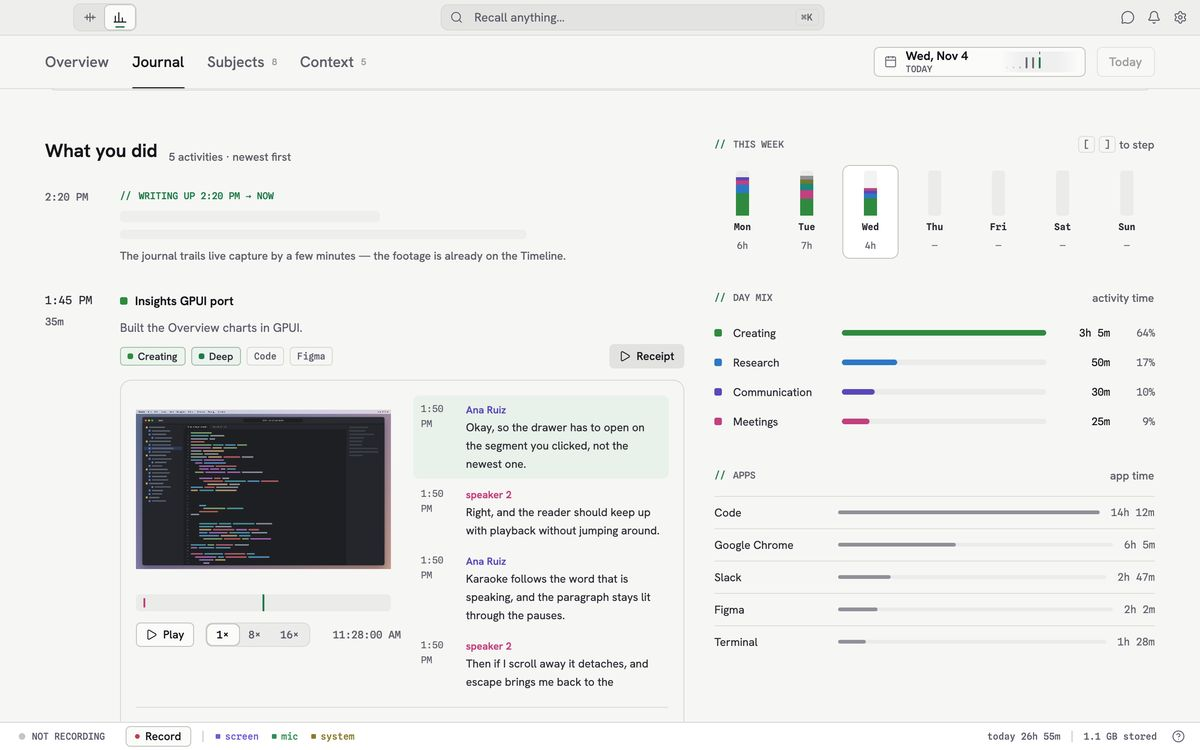
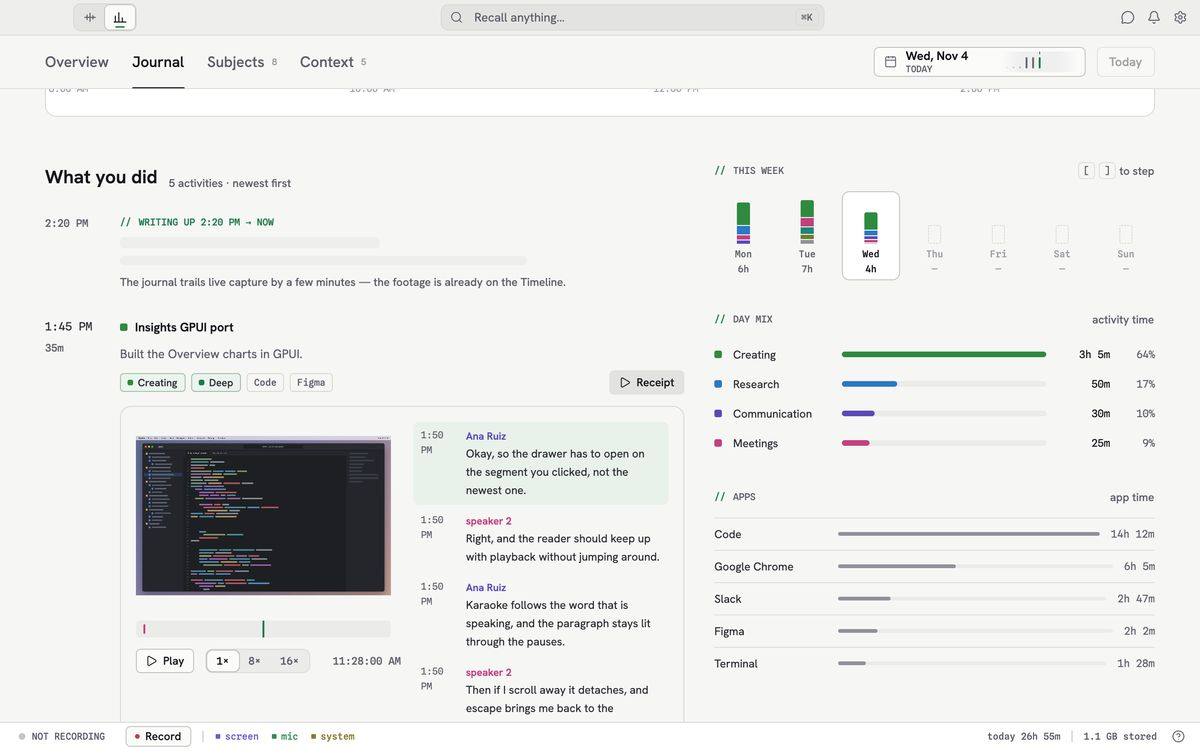
docs(gpui): report with the Insights pictures replaced and the backdrop changes to approve

diff --git a/docs/gpui/report/build.py b/docs/gpui/report/build.py
@@ -188,7 +188,8 @@ def index_page(d, drafts):
     p.append(h2(n, "Screenshots")); n += 1
     p.append('<p>One page per screen, dark next to light. Approved sets are the reference every later change '
              'is checked against. Today’s changed screens are on their own page until you approve them.</p>')
-    rows = ([(link(drafts, "round10", "Insights, checked against the Tauri app"), "11 Nov · detail windows, receipts with audio, the day spine, Subjects paging, Context editing",
+    rows = ([(link(drafts, "round11", "The dim layer behind a window, and the day spine"), "11 Nov · ten approved pictures changed by the backdrop fix; the day spine before, after and in the Tauri app",
+              page_chip(d, "round11"))] if d.get("round11") else []) + ([(link(drafts, "round10", "Insights, checked against the Tauri app"), "11 Nov · detail windows, receipts with audio, the day spine, Subjects paging, Context editing",
               page_chip(d, "round10"))] if d.get("round10") else []) + ([(link(drafts, "round9", "Main window chrome, onboarding and small windows, checked against the Tauri app"), "11 Nov · status-bar flags, notifications, onboarding engines and app rules, the update window",
               page_chip(d, "round9"))] if d.get("round9") else []) + ([(link(drafts, "round8", "Timeline, Chat and Quick Recall, checked against the Tauri app"), "11 Nov · keys, the text overlay, audio errors, the frame detail window, the model picker",
               page_chip(d, "round8"))] if d.get("round8") else []) + ([(link(drafts, "round7", "The rest of Settings, checked against the Tauri app"), "11 Nov · shortcuts, capture, privacy, data, about, licence; and the keychain prompt",
@@ -268,6 +269,11 @@ def main():
          fixes_page(d, drafts, "approve", "Earlier approvals",
                     "Screenshots you approved on 10 Nov before they became references. Nothing here is waiting."),
          "Mnema GPUI — earlier approvals")
+    if d.get("round11"):
+        emit("round11", "round11.html", "Window backdrop and day spine",
+             fixes_page(d, drafts, "round11", "The dim layer behind a window, and the day spine",
+                        "Two things you pointed out in the Insights pictures on 11 Nov, and the already-approved pictures the first fix changed. All pictures are rendered from test data."),
+             "Mnema GPUI — window backdrop and day spine")
     if d.get("round10"):
         emit("round10", "round10.html", "Insights check",
              fixes_page(d, drafts, "round10", "Insights, checked against the Tauri app",
